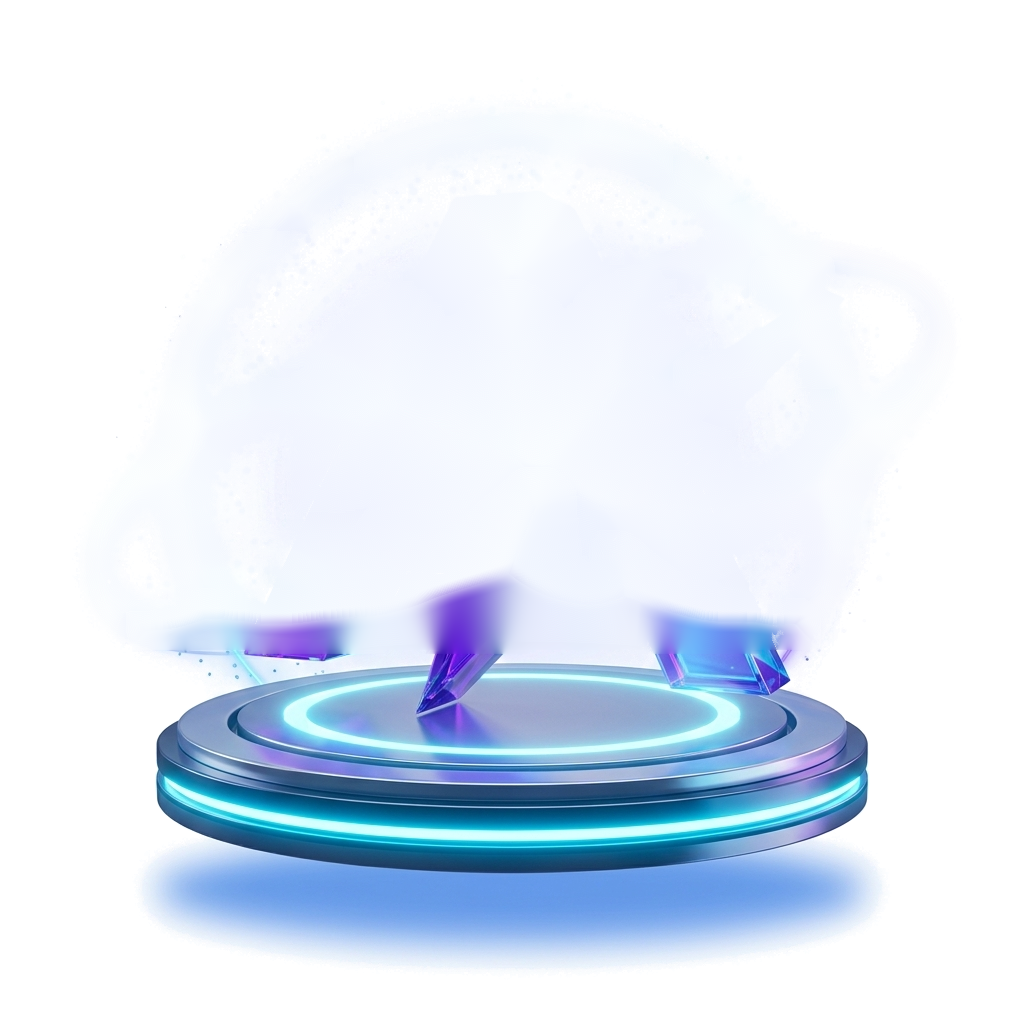
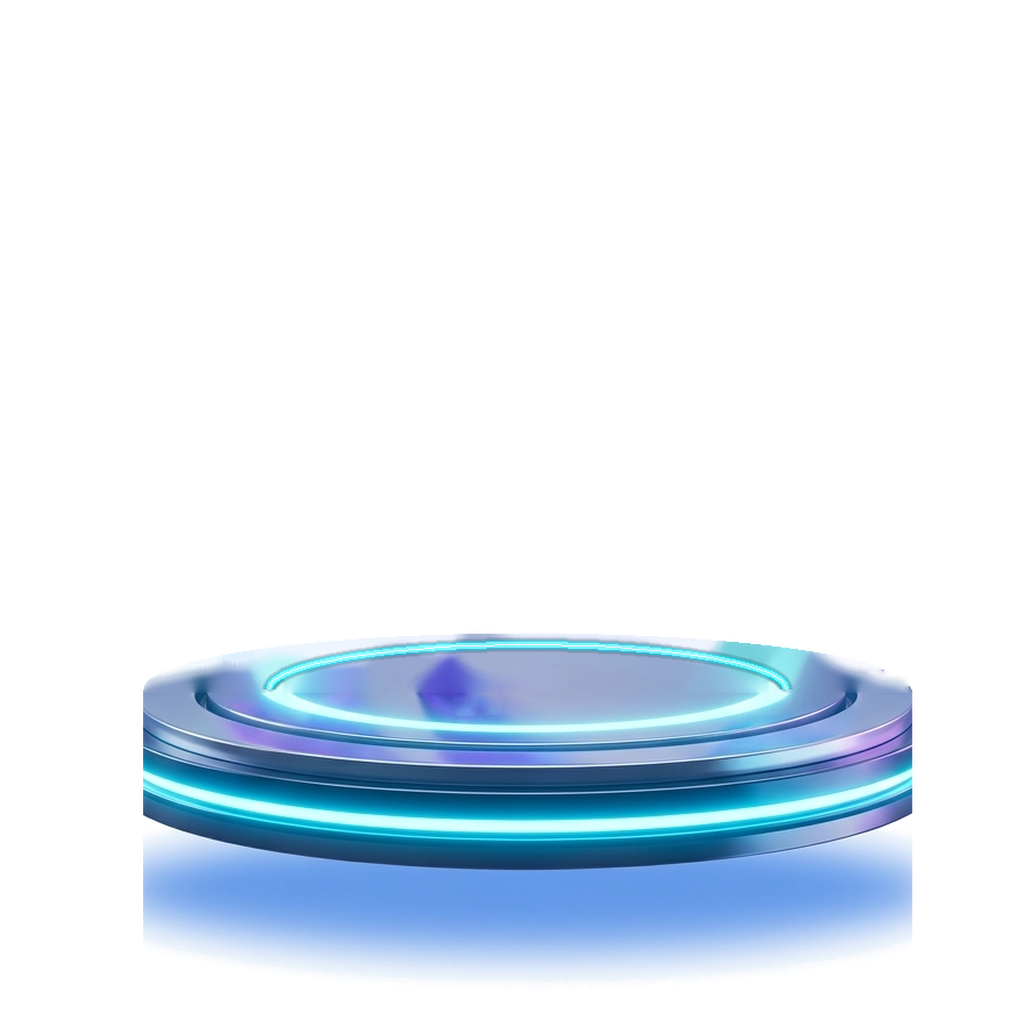
new

Changed region(s): [[0.125, 0.5625, 0.9062, 0.9688]]

diff --git a/src/components/ui/AtlyxLogoCanvas.tsx b/src/components/ui/AtlyxLogoCanvas.tsx
@@ -16,11 +16,11 @@ function AtlyxLogoModel() {
         if (mesh.material) {
           const mat = mesh.material as THREE.MeshStandardMaterial;
           mat.vertexColors = true;
-          // Lower metalness so vertex colors aren't swamped by env reflections
+          // Metallic finish with vibrant gradient preservation
           mat.metalness = 0.18;
           mat.roughness = 0.28;
-          // Mid-blue emissive gives every face a base luminosity,
-          // preventing the logo from going black when back-lit
+          // Mid-blue emissive gives every face base luminosity,
+          // ensuring vivid gradient visibility from all rotation angles
           mat.emissive = new THREE.Color(0x1a3a8f);
           mat.emissiveIntensity = 1.1;
           mat.side = THREE.DoubleSide;
@@ -30,22 +30,21 @@ function AtlyxLogoModel() {
     });
   }, [scene]);
 
-  useFrame((state, delta) => {
+  useFrame((_state, delta) => {
     if (groupRef.current) {
-      // Clamp delta to prevent spin jump on tab blur / frame spikes
+      // Delta clamping prevents spin jumps on tab blur / frame lag
       const safeDelta = Math.min(delta, 0.05);
 
-      // Continuous smooth Y-axis rotation
+      // Continuous smooth Y-axis rotation ONLY
       groupRef.current.rotation.y += safeDelta * 0.85;
 
-      // Smooth sine-wave float — 0.10 unit amplitude, premium slow pace
-      groupRef.current.position.y =
-        0.26 + Math.sin(state.clock.elapsedTime * 1.4) * 0.10;
+      // FIXED vertical position: NO floating, NO bouncing, NO oscillation.
+      // Logo maintains a constant, stable height above the pedestal.
     }
   });
 
   return (
-    <group ref={groupRef} position={[0, 0.26, 0]}>
+    <group ref={groupRef} position={[0, 0.48, 0]}>
       <primitive
         object={scene}
         scale={1.22}
@@ -81,25 +80,25 @@ export default function AtlyxLogoCanvas() {
         }}
         dpr={[1, 2]}
       >
-        {/* Reduced ambient — white ambient at high intensity washes out vertex colors */}
+        {/* Soft balanced ambient light */}
         <ambientLight intensity={0.55} color="#d0eeff" />
 
-        {/* Primary key light — reduced from 2.2 to 1.1 so it doesn't bleach cyan */}
+        {/* Primary key light */}
         <directionalLight position={[4, 6, 4]} intensity={1.1} color="#ffffff" />
 
         {/* Soft indigo fill from the left */}
         <directionalLight position={[-4, 3, 3]} intensity={0.75} color="#c7d2fe" />
 
-        {/* Purple rim — accentuates lower-left purple gradient */}
+        {/* Purple rim light — accentuates lower-left purple gradient */}
         <directionalLight position={[-4, -2, -3]} intensity={1.8} color="#9333ea" />
 
-        {/* Cyan rim — accentuates top slash and apex */}
+        {/* Cyan rim light — accentuates top slash and apex */}
         <directionalLight position={[4, 2, -3]} intensity={2.0} color="#00e5ff" />
 
-        {/* Upward cyan glow from pedestal — keep strong for pedestal reflection */}
+        {/* Upward cyan glow from pedestal */}
         <pointLight position={[0, -1.0, 0.2]} intensity={3.5} distance={4} color="#00ffff" />
 
-        {/* Soft top-down light for apex bevel highlight */}
+        {/* Top-down light for apex bevel highlight */}
         <directionalLight position={[0, 5, 0]} intensity={0.45} color="#e0f2fe" />
 
         <AtlyxLogoModel />

diff --git a/src/components/ui/CareerGrowthVisual.module.css b/src/components/ui/CareerGrowthVisual.module.css
@@ -48,8 +48,9 @@
 /* ── CENTER 3D MONUMENT ── */
 .monumentContainer {
   position: relative;
-  width: 380px;
-  height: 380px;
+  width: 440px;
+  height: 440px;
+  margin-top: 16px;
   display: flex;
   align-items: center;
   justify-content: center;
@@ -293,9 +294,16 @@
   pointer-events: none;
 }
 
+@media (max-width: 640px) {
+  .monumentContainer {
+    width: 380px;
+    height: 380px;
+  }
+}
+
 @media (max-width: 420px) {
   .monumentContainer {
-    width: 300px;
-    height: 300px;
+    width: 320px;
+    height: 320px;
   }
 }

diff --git a/src/components/ui/CareerGrowthVisual.tsx b/src/components/ui/CareerGrowthVisual.tsx
@@ -23,8 +23,8 @@ export default function CareerGrowthVisual() {
           <Image
             src="/images/atlyx-monument-backdrop.png"
             alt="ATLYX 3D Career Growth Monument"
-            width={380}
-            height={380}
+            width={440}
+            height={440}
             priority
             className={styles.monumentImage}
           />
